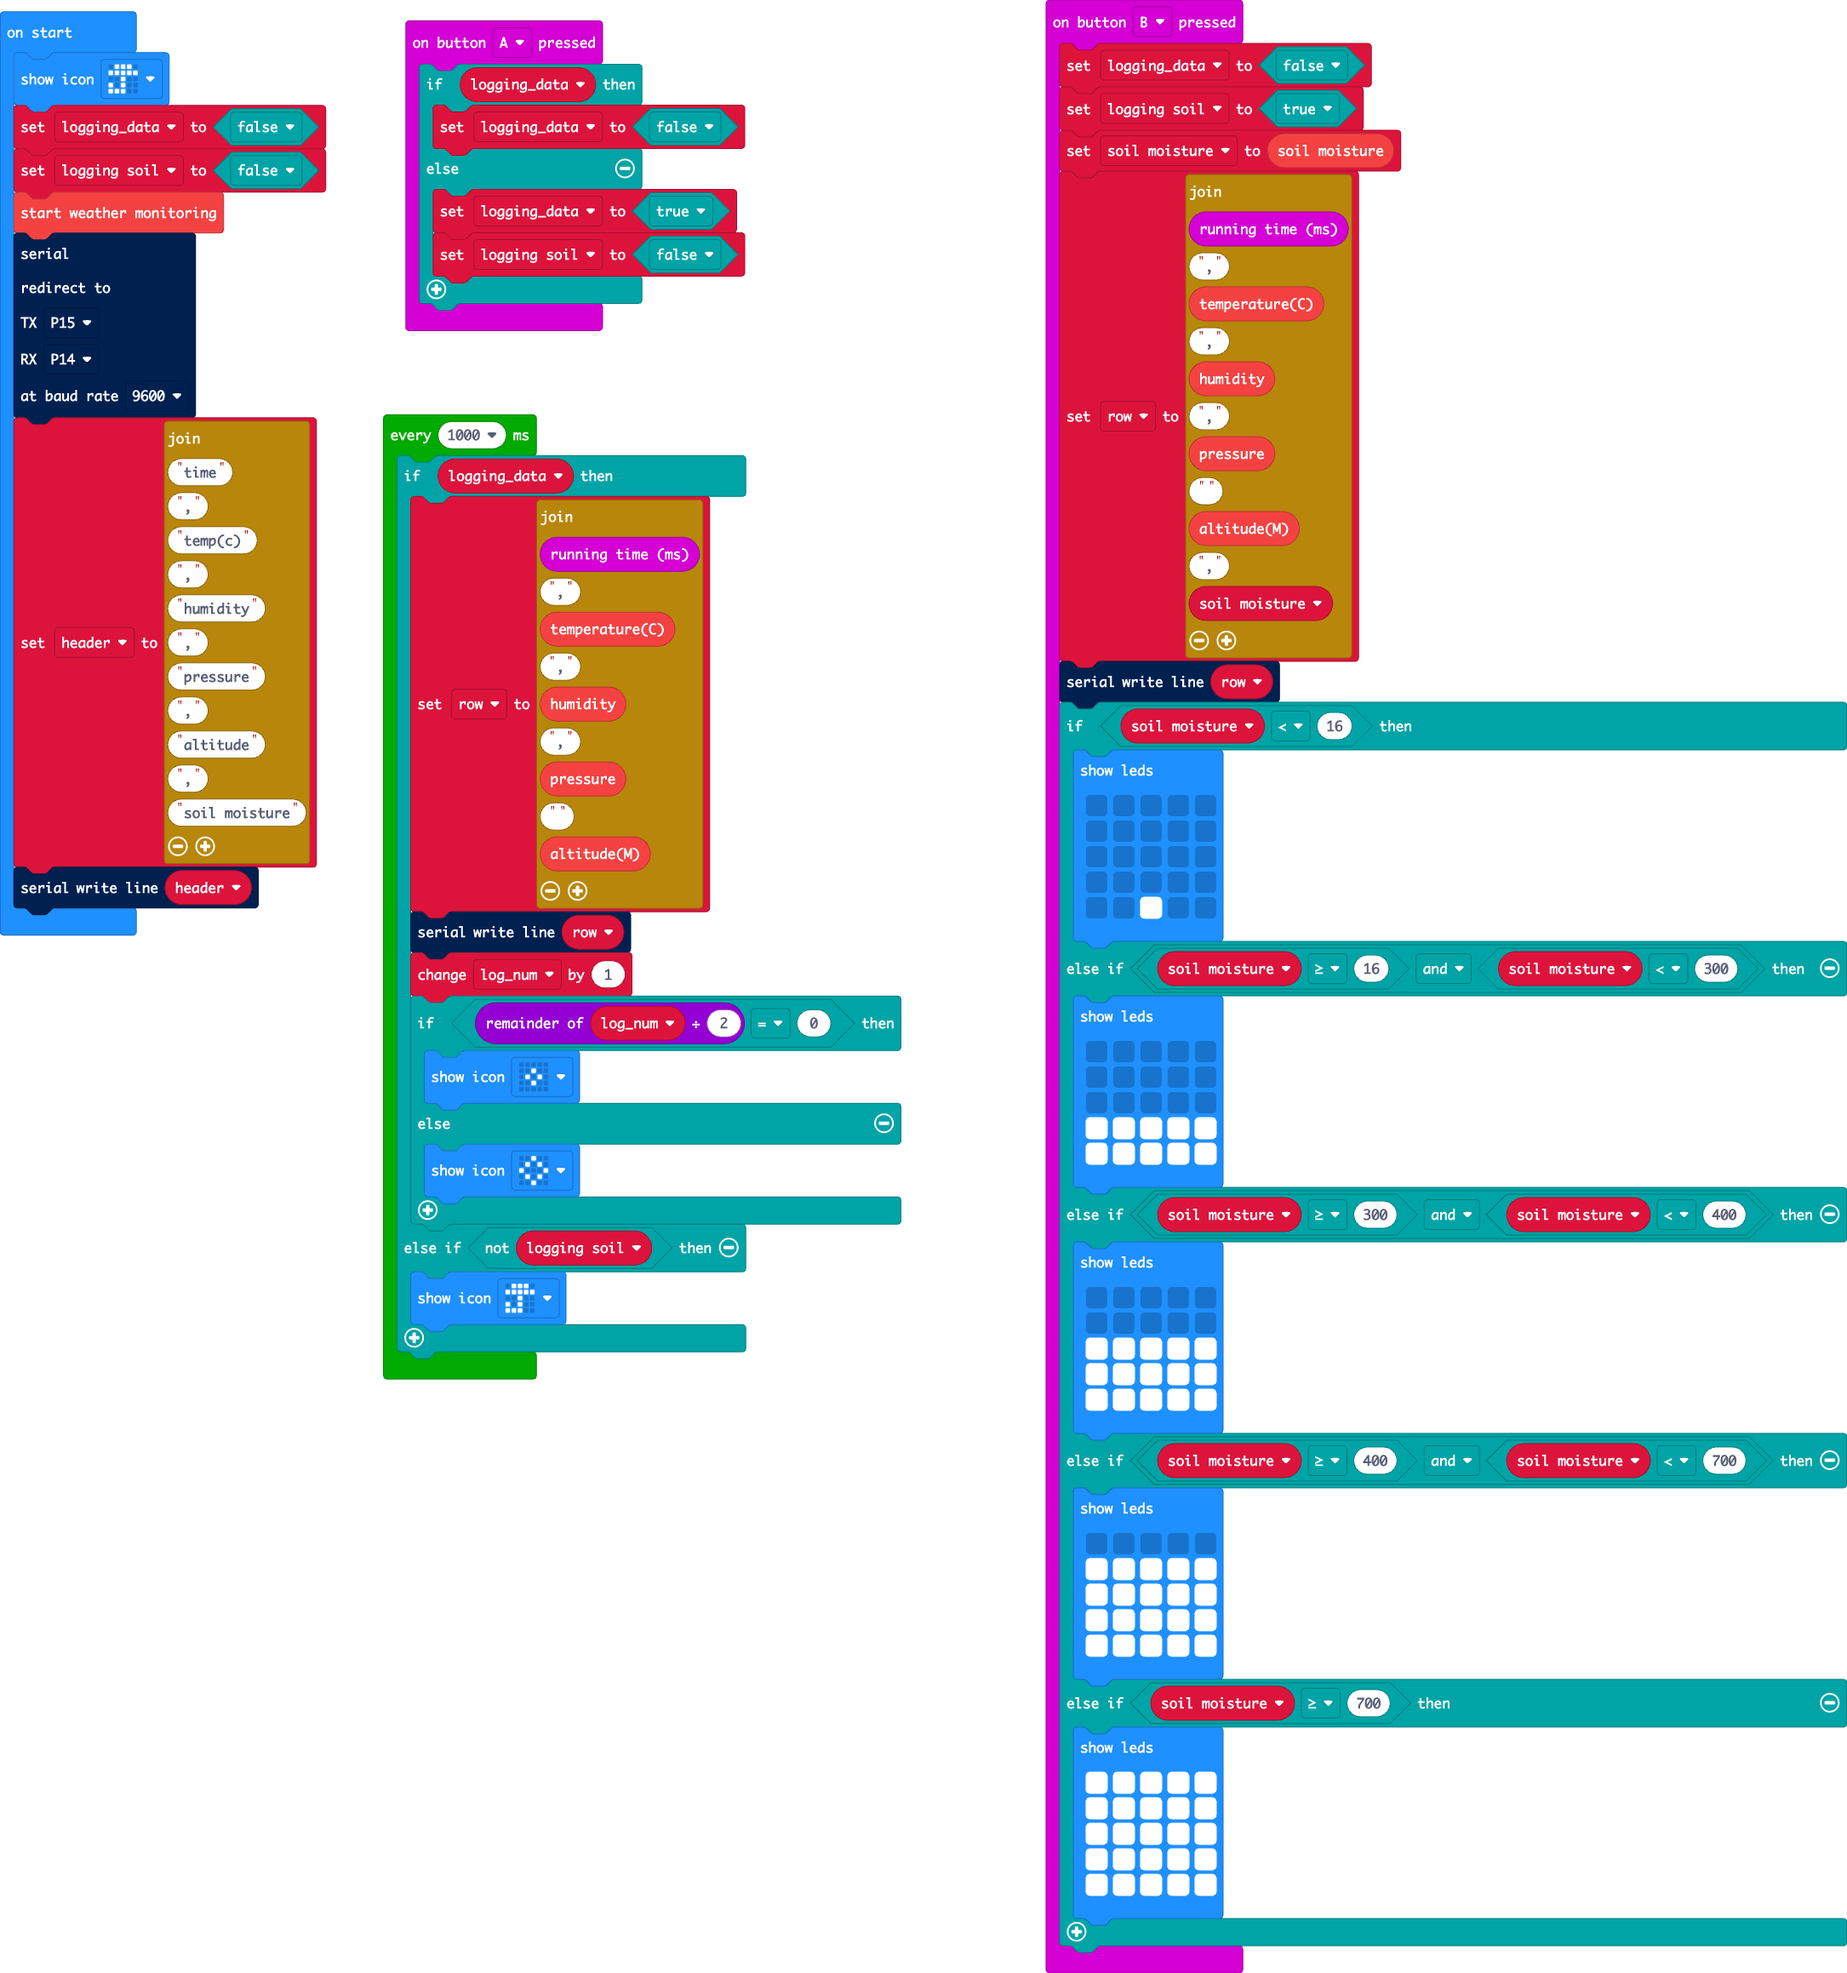
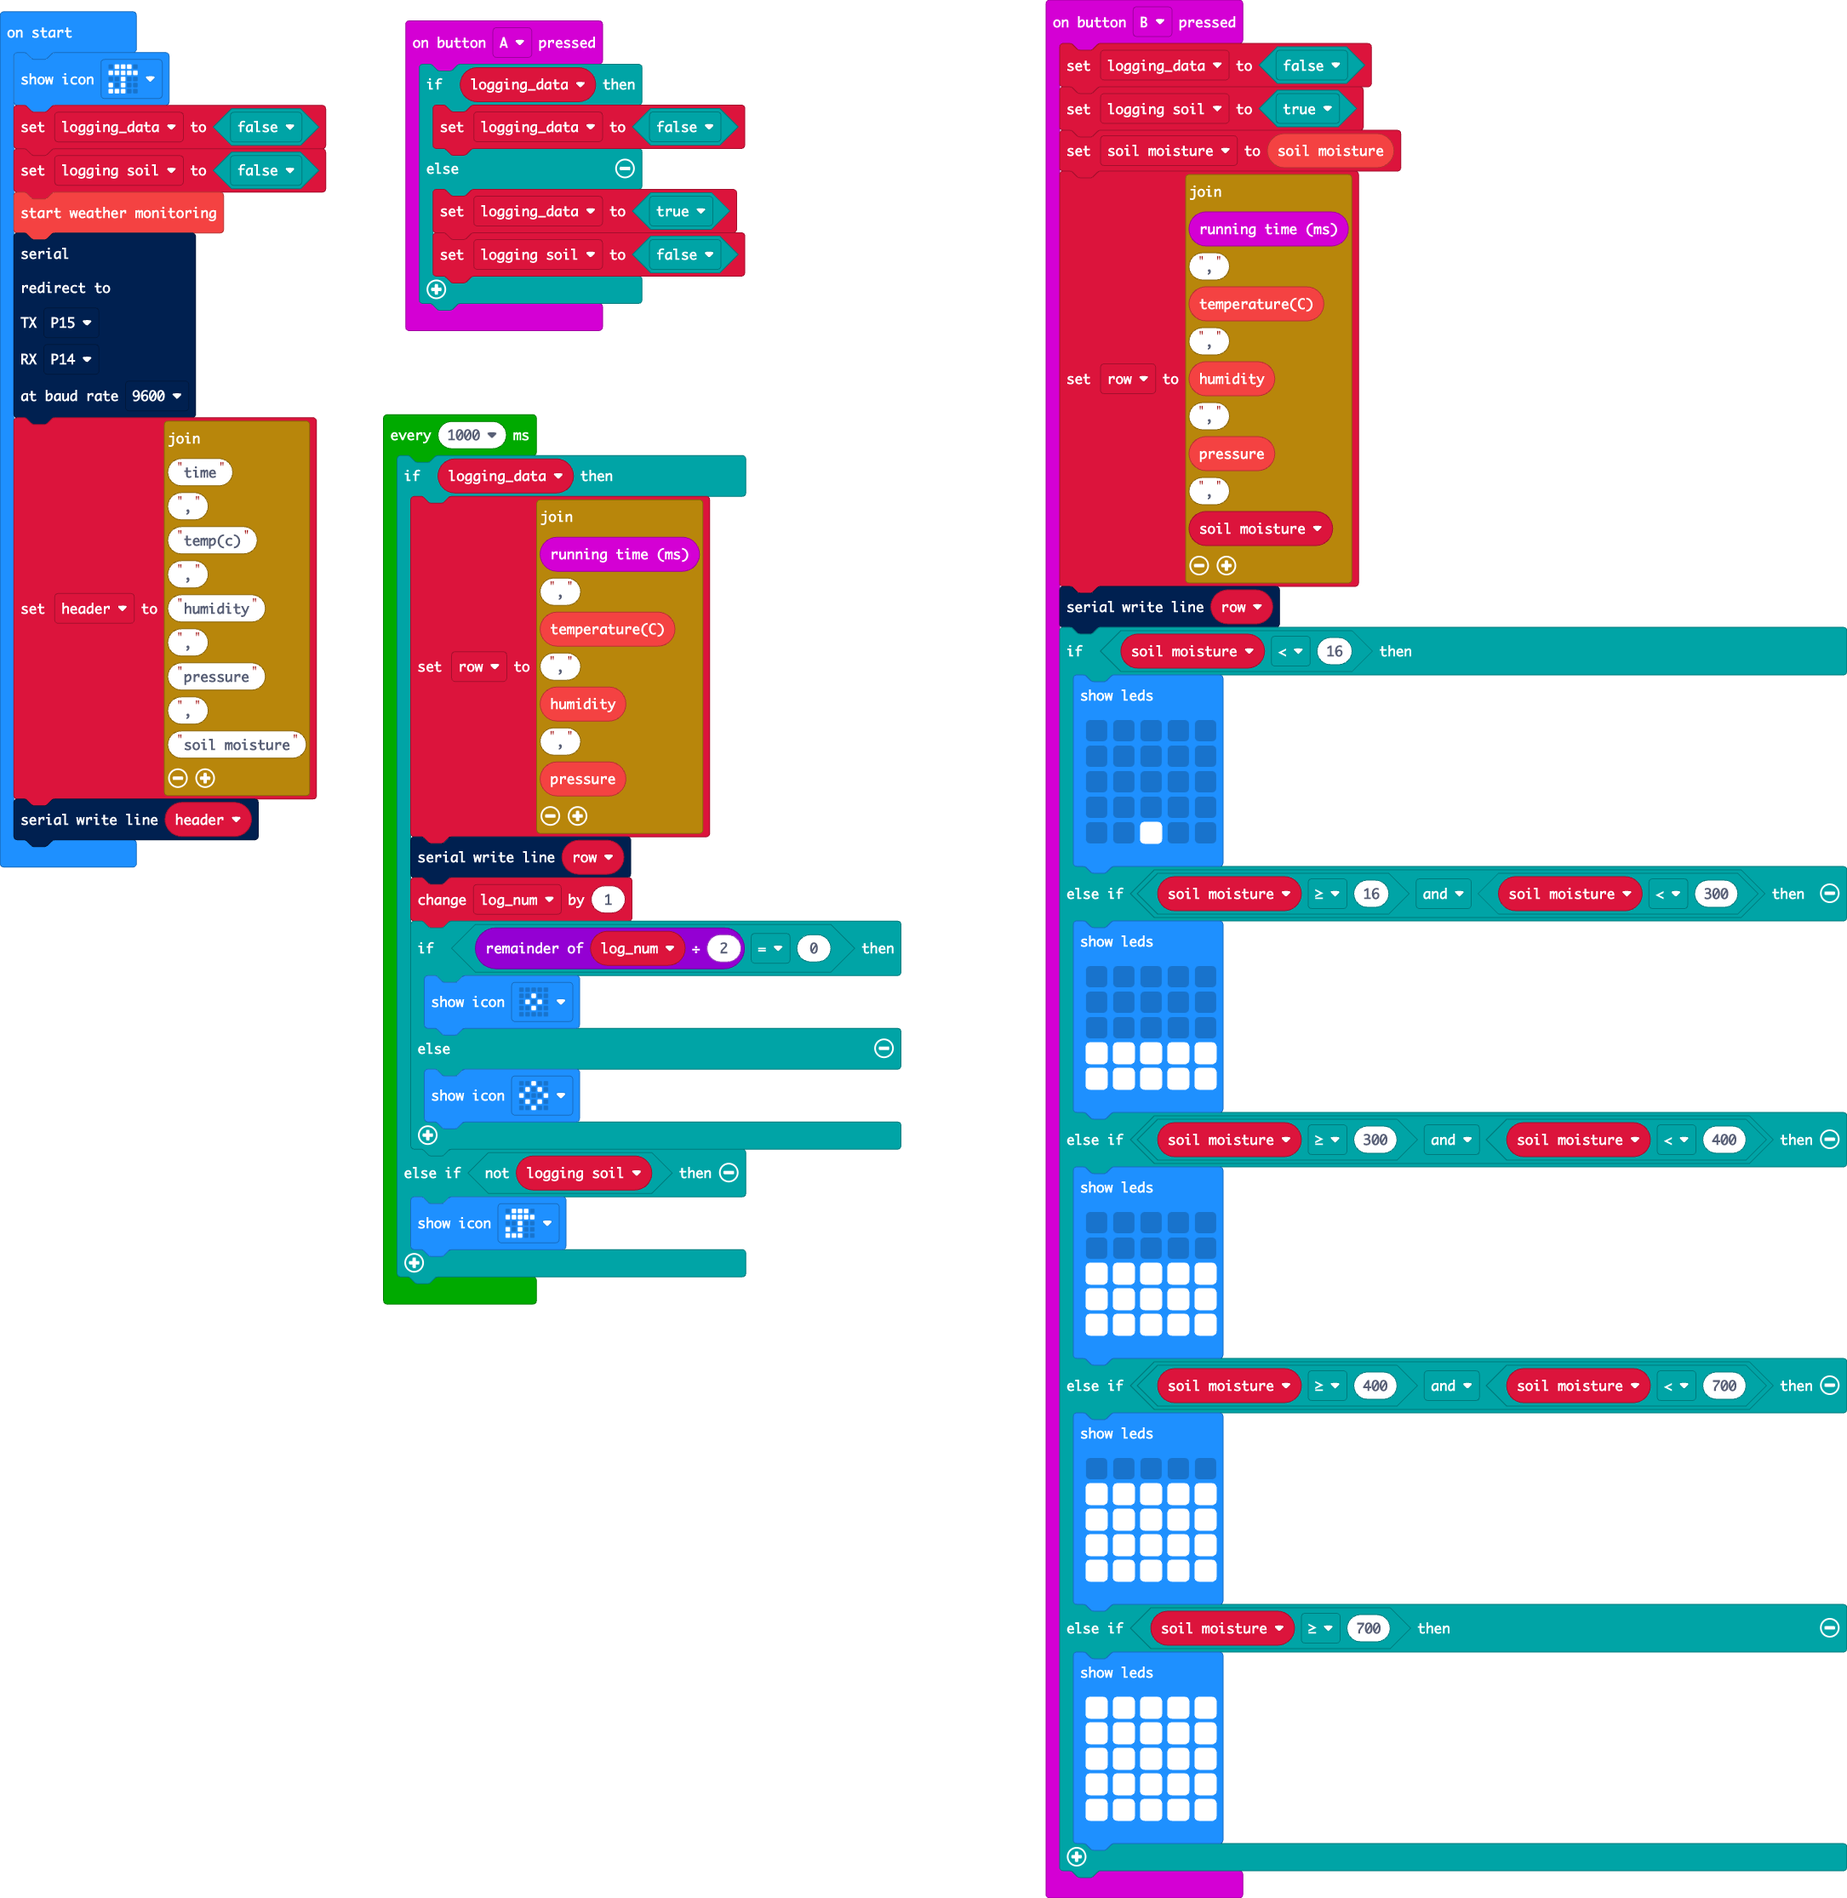
comma works best when importing to excel

Changed region(s): [[0.5558, 0.0, 1.0, 0.9901], [0.1853, 0.0, 0.494, 0.7117], [0.0, 0.0, 0.1853, 0.4951]]

diff --git a/main.ts b/main.ts
@@ -10,7 +10,7 @@ input.onButtonPressed(Button.B, function () {
     logging_data = false
     logging_soil = true
     soil_moisture = weatherbit.soilMoisture()
-    row = "" + input.runningTime() + "," + weatherbit.temperature() + "," + weatherbit.humidity() + "," + weatherbit.pressure() + "" + weatherbit.altitude() + "," + soil_moisture
+    row = "" + input.runningTime() + "," + weatherbit.temperature() + "," + weatherbit.humidity() + "," + weatherbit.pressure() + "," + soil_moisture
     serial.writeLine(row)
     if (soil_moisture < 16) {
         basic.showLeds(`
@@ -68,11 +68,11 @@ SerialPin.P15,
 SerialPin.P14,
 BaudRate.BaudRate9600
 )
-let header = "time" + "," + "temp(c)" + "," + "humidity" + "," + "pressure" + "," + "altitude" + "," + "soil moisture"
+let header = "time" + "," + "temp(c)" + "," + "humidity" + "," + "pressure" + "," + "soil moisture"
 serial.writeLine(header)
 loops.everyInterval(1000, function () {
     if (logging_data) {
-        row = "" + input.runningTime() + "," + weatherbit.temperature() + "," + weatherbit.humidity() + "," + weatherbit.pressure() + "" + weatherbit.altitude()
+        row = "" + input.runningTime() + "," + weatherbit.temperature() + "," + weatherbit.humidity() + "," + weatherbit.pressure()
         serial.writeLine(row)
         log_num += 1
         if (log_num % 2 == 0) {
